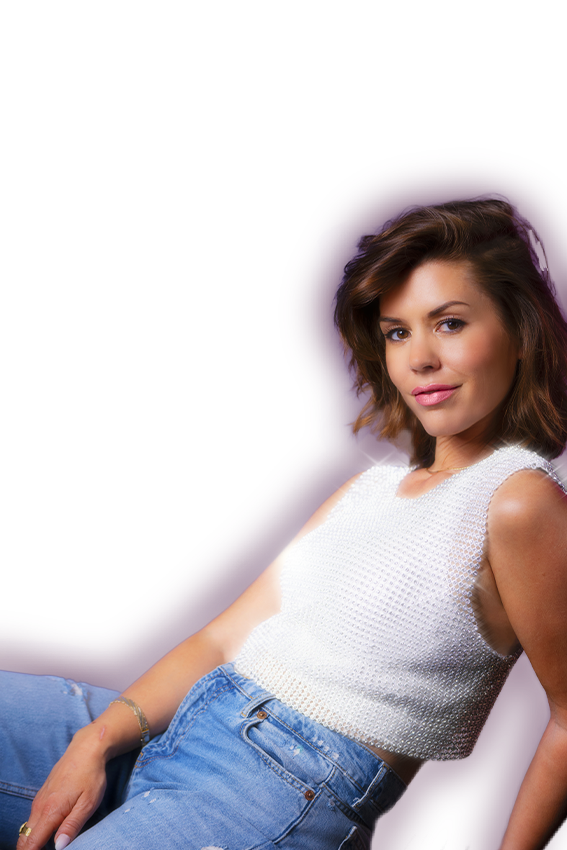
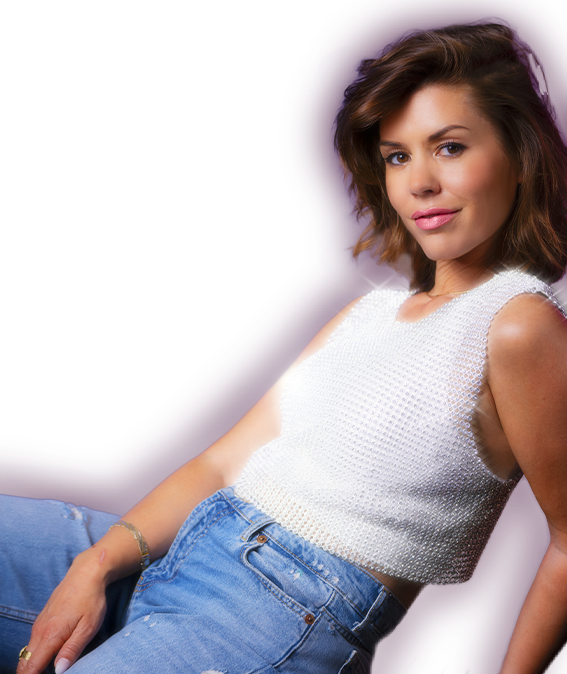
Change position bg on mobile

diff --git a/style.css b/style.css
@@ -355,12 +355,15 @@ h1 {
         height: unset;
     }
     .main-mobile {
-        background-image: url('images/laurie-mobile-2.png');
-        background-size: auto 80%, cover;
-        background-repeat: no-repeat;
-        background-position: top right;
-        height: 80vh;
+        /*background-image: url('images/laurie-mobile-2.png');*/
+        /*background-size: auto 80%, cover;*/
+        /*background-repeat: no-repeat;*/
+        /*background-position: top right;*/
+        /*height: 80vh;*/
         text-align: center;
+    }
+    .laurie-mobile-img {
+        width: 100vw;
     }
     .desktop-nav {
         display: none;
@@ -399,9 +402,10 @@ h1 {
 }
 @media (max-width: 600px) {
     .a-bientot-img {
-        padding-top: 50px;
-        width: 50%;
-        padding-left: 20px;
+        position: absolute;
+        width: 45%;
+        top: 45%;
+        left: 5%;
     }
     .main-mobile {
         text-align: unset;

diff --git a/index.html b/index.html
@@ -62,6 +62,8 @@
         </h1>
         <div class="main-mobile">
             <img src="images/a_bientot.png" class="a-bientot-img" alt="">
+            <img src="images/laurie-mobile-2.png" class="laurie-mobile-img" alt="">
+
         </div>
         <footer>
             <a href="https://laurieperet.francebillet.com/" target="_blank" class="billet-mobile-btn primary-btn">
